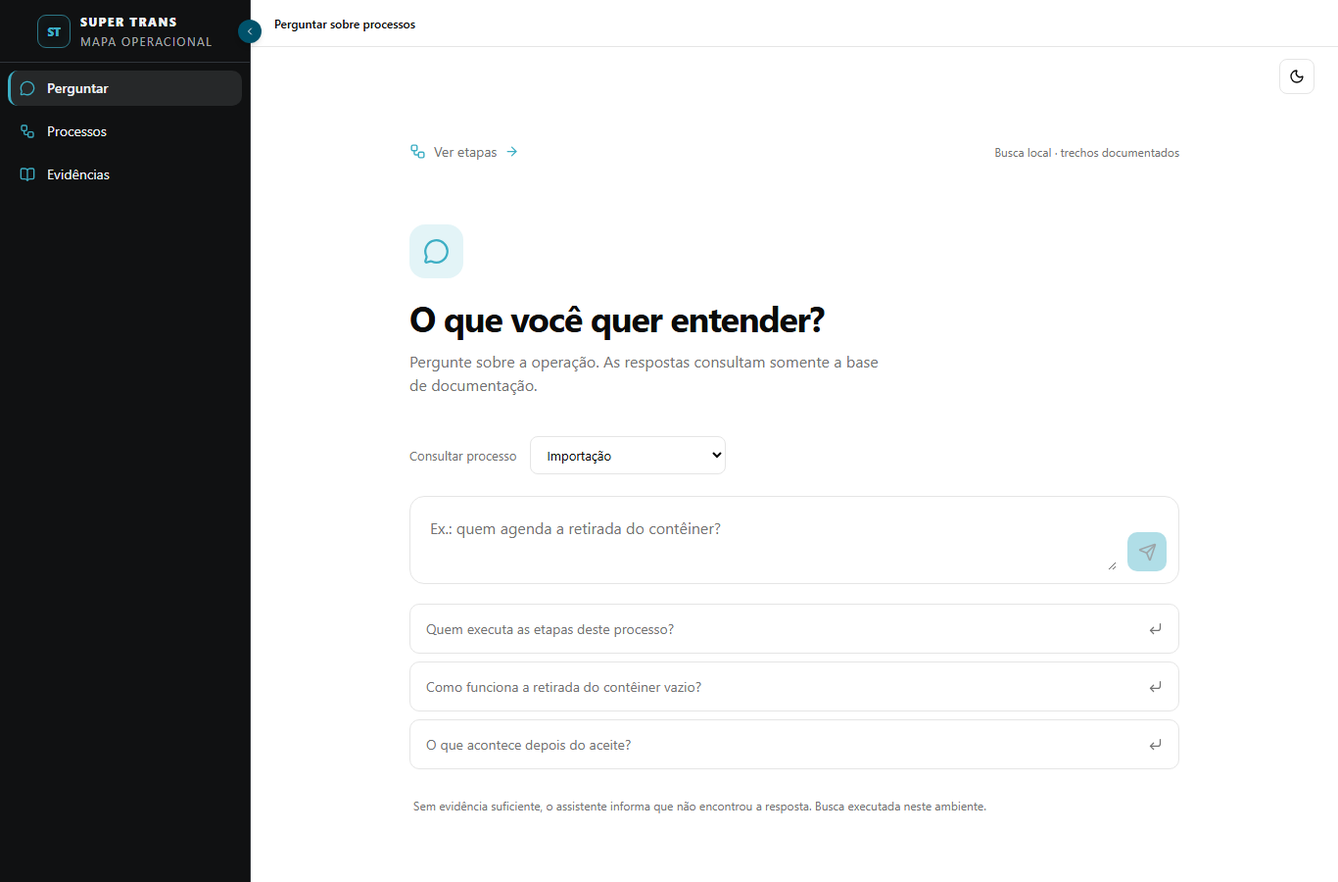
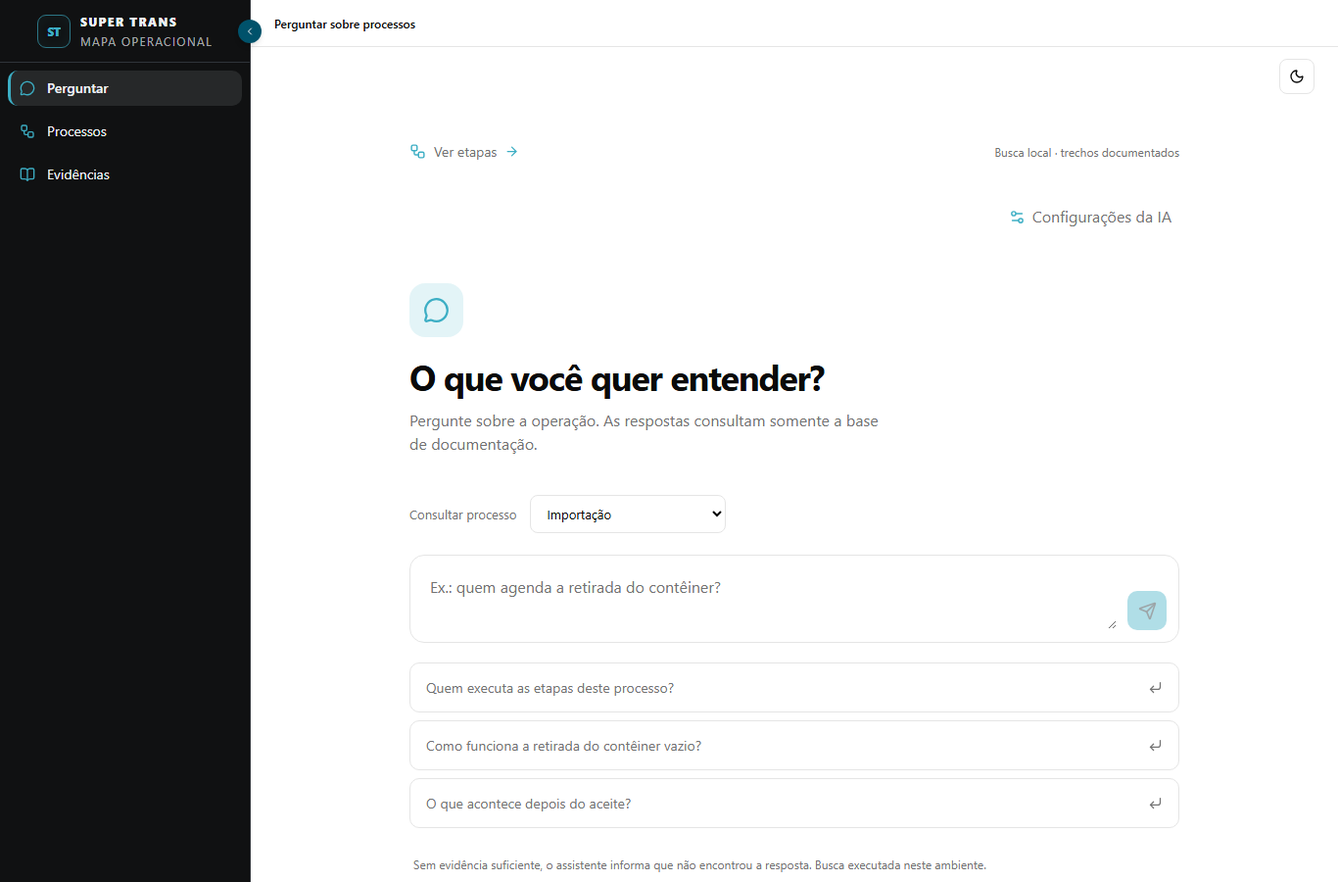
feat: configurar chave NVIDIA e modelo pela interface

diff --git a/frontend/src/components/AssistantSettings.tsx b/frontend/src/components/AssistantSettings.tsx
@@ -1,0 +1,79 @@
+import { useEffect, useRef, useState, type FormEvent } from 'react'
+import { Settings2, X } from 'lucide-react'
+
+const defaultModel = 'nvidia/nemotron-3.5-super-vl-120b-a12b'
+interface Settings {
+  model: string
+  keyConfigured: boolean
+  locked: boolean
+  mode: 'local-search' | 'local-nim' | 'nvidia-api'
+  externalContext: boolean
+}
+
+export function AssistantSettings({ onSaved }: { onSaved: (settings: Settings) => void }) {
+  const dialog = useRef<HTMLDialogElement>(null)
+  const [settings, setSettings] = useState<Settings | null>(null)
+  const [model, setModel] = useState(defaultModel)
+  const [custom, setCustom] = useState(false)
+  const [key, setKey] = useState('')
+  const [remove, setRemove] = useState(false)
+  const [busy, setBusy] = useState(false)
+  const [error, setError] = useState('')
+  const [message, setMessage] = useState('')
+  const controller = useRef<AbortController | null>(null)
+  useEffect(() => () => controller.current?.abort(), [])
+
+  async function open() {
+    setKey(''); setRemove(false); setError(''); setMessage(''); setSettings(null)
+    dialog.current?.showModal()
+    controller.current?.abort()
+    controller.current = new AbortController()
+    try {
+      const response = await fetch('/api/chat/settings', { signal: controller.current.signal })
+      if (!response.ok) throw new Error()
+      const data: Settings = await response.json()
+      setSettings(data); setModel(data.model); setCustom(data.model !== defaultModel)
+    } catch (reason) {
+      if (!(reason instanceof DOMException && reason.name === 'AbortError')) setError('Não foi possível carregar. Confira se o serviço local está iniciado.')
+    }
+  }
+
+  async function save(event: FormEvent) {
+    event.preventDefault()
+    setBusy(true); setError(''); setMessage('')
+    try {
+      const response = await fetch('/api/chat/settings', { method: 'POST', headers: { 'Content-Type': 'application/json' },
+        body: JSON.stringify({ model: model.trim(), apiKey: key.trim(), removeKey: remove }) })
+      const data = await response.json()
+      if (!response.ok) throw new Error(data.error || 'Não foi possível salvar.')
+      setSettings(data); setKey(''); setRemove(false); onSaved(data)
+      setMessage(data.keyConfigured ? 'Configuração salva. Será usada na próxima pergunta. A validade da chave ainda não foi testada.' : 'Configuração salva. Assistente em busca local.')
+    } catch (reason) { setError(reason instanceof Error ? reason.message : 'Não foi possível salvar.') }
+    finally { setBusy(false) }
+  }
+
+  return <>
+    <button className="assistant-settings-trigger" onClick={() => void open()}><Settings2 size={17} aria-hidden="true" />Configurações da IA</button>
+    <dialog ref={dialog} className="assistant-settings" aria-labelledby="ai-settings-title" onClose={() => { setKey(''); controller.current?.abort() }} onCancel={(event) => { if (busy) event.preventDefault() }}>
+      <div className="assistant-settings-heading"><h2 id="ai-settings-title">Configurações da IA</h2><button aria-label="Fechar configurações" disabled={busy} onClick={() => dialog.current?.close()}><X size={20} aria-hidden="true" /></button></div>
+      {error && <p role="alert" className="assistant-notice">{error}</p>}
+      {!settings && !error && <p>Carregando configuração…</p>}
+      {settings && <form onSubmit={(event) => void save(event)}>
+        <p>Provedor: NVIDIA API</p>
+        {settings.locked && <p className="assistant-notice">Configuração gerenciada pelas variáveis do servidor. Altere-as e reinicie o serviço.</p>}
+        <fieldset disabled={busy || settings.locked}>
+          <label>Modelo<select aria-label="Modelo" value={custom ? 'custom' : defaultModel} onChange={(event) => { const other = event.target.value === 'custom'; setCustom(other); setModel(other ? '' : defaultModel) }}>
+            <option value={defaultModel}>Nemotron 3.5 Super (padrão)</option><option value="custom">Outro modelo NVIDIA</option>
+          </select></label>
+          {custom && <label>Identificador do modelo<input required maxLength={200} value={model} onChange={(event) => setModel(event.target.value)} placeholder="organização/nome-do-modelo" autoComplete="off" /></label>}
+          <label>Chave de API NVIDIA<input type="password" maxLength={512} value={key} disabled={remove} onChange={(event) => setKey(event.target.value)} autoComplete="new-password" spellCheck={false} placeholder={settings.keyConfigured ? 'Chave salva · deixe vazio para manter' : 'Cole sua chave de API'} /></label>
+          <small>{settings.keyConfigured ? 'Chave configurada. O valor salvo não é exibido.' : 'Sem chave, o assistente usa a busca local.'} Armazenamento no servidor em .env.local, fora do Git.</small>
+          {settings.keyConfigured && <label className="assistant-settings-remove"><input type="checkbox" checked={remove} onChange={(event) => { setRemove(event.target.checked); setKey('') }} />Remover chave e usar busca local</label>}
+          <p className="assistant-footnote">Com a API ativa, perguntas e trechos relevantes da documentação são enviados à NVIDIA.</p>
+          <button type="submit" className="assistant-settings-save">{busy ? 'Salvando…' : 'Salvar configuração'}</button>
+        </fieldset>
+      </form>}
+      {message && <p role="status">{message}</p>}
+    </dialog>
+  </>
+}

diff --git a/frontend/src/styles.css b/frontend/src/styles.css
@@ -1517,3 +1517,19 @@ a:focus-visible { outline: 3px solid var(--ring); outline-offset: 2px; }
   .assistant-scope { flex-wrap: wrap; gap: 8px; }
   .assistant-scope select { max-width: 100%; width: 100%; }
 }
+
+.assistant-settings-bar { display:flex; justify-content:flex-end; margin:8px 0 20px; }
+.assistant-settings-trigger { display:inline-flex; align-items:center; gap:7px; background:transparent; color:var(--muted-foreground); border:0; padding:8px; cursor:pointer; }
+.assistant-settings-trigger svg { color:var(--accent); }
+.assistant-settings { margin:auto; width:min(510px, calc(100vw - 32px)); max-height:calc(100dvh - 40px); overflow:auto; padding:24px; border:1px solid var(--border); border-radius:16px; background:var(--card); color:var(--foreground); }
+.assistant-settings::backdrop { background:rgb(0 0 0 / 45%); }
+.assistant-settings-heading { display:flex; align-items:center; justify-content:space-between; gap:16px; }
+.assistant-settings-heading h2 { margin:0; font-size:20px; }
+.assistant-settings-heading button { border:0; background:transparent; color:inherit; cursor:pointer; padding:6px; }
+.assistant-settings fieldset { border:0; padding:0; margin:0; min-width:0; display:grid; gap:16px; }
+.assistant-settings label { display:grid; gap:7px; font-size:14px; font-weight:600; }
+.assistant-settings input:not([type=checkbox]), .assistant-settings select { width:100%; min-width:0; box-sizing:border-box; padding:11px; border:1px solid var(--border); border-radius:8px; background:var(--background); color:var(--foreground); }
+.assistant-settings small { color:var(--muted-foreground); line-height:1.6; }
+.assistant-settings .assistant-settings-remove { display:flex; align-items:center; gap:8px; font-weight:400; }
+.assistant-settings-save { border:0; border-radius:8px; padding:12px; color:var(--text-inverse); background:var(--accent); cursor:pointer; font-weight:600; }
+.assistant-settings :disabled { opacity:.6; cursor:default; }

diff --git a/frontend/src/components/AssistantPage.tsx b/frontend/src/components/AssistantPage.tsx
@@ -2,6 +2,7 @@ import { useEffect, useRef, useState, type FormEvent } from 'react'
 import { ArrowRight, BookOpen, CornerDownLeft, LoaderCircle, MessageCircle, Send, Workflow } from 'lucide-react'
 import { Link } from 'react-router-dom'
 import type { FrontendCatalog } from '../data/types'
+import { AssistantSettings } from './AssistantSettings'
 
 interface Evidence { id: string; file: string; line: number; title: string; quote: string; processId: string | null }
 interface Reply { mode: 'local-search' | 'local-nim' | 'nvidia-api'; answer: string; sources: Evidence[]; warning?: string }
@@ -58,6 +59,7 @@ export function AssistantPage({ catalog }: { catalog: FrontendCatalog }) {
         <Link className="assistant-flow-link" to={`/operacao/${processId || 'P001'}`}><Workflow size={17} aria-hidden="true" />Ver etapas<ArrowRight size={15} aria-hidden="true" /></Link>
         <span className="assistant-local-status">{mode === 'nvidia-api' ? 'NVIDIA NIM · respostas com fontes' : mode === 'local-nim' ? 'NIM local · respostas com fontes' : mode === 'local-search' ? 'Busca local · trechos documentados' : 'Base de processos'}</span>
       </header>
+      <div className="assistant-settings-bar"><AssistantSettings onSaved={(settings) => { setMode(settings.mode); setExternalContext(settings.externalContext) }} /></div>
       {turns.length === 0 && <section className="assistant-welcome">
         <span className="assistant-mark"><MessageCircle size={27} aria-hidden="true" /></span>
         <h1>O que você quer entender?</h1>

diff --git a/scripts/chat_server.py b/scripts/chat_server.py
@@ -7,6 +7,8 @@ import json
 import os
 from pathlib import Path
 import re
+import tempfile
+import threading
 import urllib.error
 import urllib.parse
 import urllib.request
@@ -108,6 +110,7 @@ def readable(hit, question=''):
 class Assistant:
     def __init__(self, corpus: Path, endpoint: str = '', model: str = '', nvidia_api_key: str = ''):
         self.index = KnowledgeIndex(corpus)
+        self.config_lock = threading.RLock()
         self.endpoint = local_endpoint(endpoint) if endpoint else ''
         self.model = model
         self.api_key = ''
@@ -121,6 +124,8 @@ class Assistant:
             raise ValueError('NIM_MODEL é obrigatório ao configurar NIM_BASE_URL')
 
     def answer(self, question: str, process_id: str | None):
+        with self.config_lock:
+            endpoint, model, api_key, external = self.endpoint, self.model, self.api_key, self.external
         if not isinstance(question, str) or not 3 <= len(question.strip()) <= 2000:
             raise ValueError('Escreva uma pergunta entre 3 e 2000 caracteres')
         if process_id is not None and not re.fullmatch(r'P00[1-9]|P010', str(process_id)):
@@ -131,10 +136,10 @@ class Assistant:
         mode = 'local-search'
         warning = None
         selected = []
-        if self.endpoint:
+        if endpoint:
             try:
-                selected = nim_quotes(question, hits, self.endpoint, self.model, self.api_key)
-                mode = 'nvidia-api' if self.external else 'local-nim'
+                selected = nim_quotes(question, hits, endpoint, model, api_key)
+                mode = 'nvidia-api' if external else 'local-nim'
                 if not selected:
                     return dict(mode=mode, answer='Não encontrei evidência suficiente para responder com segurança.', sources=[])
             except (OSError, ValueError, KeyError, IndexError, TypeError):
@@ -143,11 +148,61 @@ class Assistant:
             selected = [dict(h, quote=readable(h, question)) for h in hits[:3]]
         public = [dict(id=h['id'], file=h['file'], line=h['line'], title=re.sub(r'\s*\[.*?\]\s*$', '', h['title']),
                        quote=h['quote'], processId=h['processId']) for h in selected]
-        return dict(mode=mode, externalContext=self.external, answer='Encontrei estes trechos na documentação:' if mode == 'local-search' else 'A documentação informa:',
+        return dict(mode=mode, externalContext=external, answer='Encontrei estes trechos na documentação:' if mode == 'local-search' else 'A documentação informa:',
                     sources=public, warning=warning)
 
 
-def make_handler(assistant, directory):
+class SettingsStore:
+    def __init__(self, assistant, root=ROOT):
+        self.assistant = assistant
+        self.root = root
+
+    def public(self):
+        with self.assistant.config_lock:
+            config = configuration(self.root)
+            locked = bool(config['NIM_BASE_URL'] or any(key in os.environ for key in ('NVIDIA_API_KEY', 'NVIDIA_MODEL')))
+            return dict(model=self.assistant.model or config['NVIDIA_MODEL'] or NVIDIA_MODEL,
+                        keyConfigured=bool(self.assistant.api_key), locked=locked,
+                        mode='nvidia-api' if self.assistant.external else 'local-nim' if self.assistant.endpoint else 'local-search',
+                        externalContext=self.assistant.external)
+
+    def save(self, data):
+        with self.assistant.config_lock:
+            if self.public()['locked']:
+                raise ValueError('Configuração gerenciada pelo ambiente do servidor. Altere as variáveis e reinicie o serviço.')
+            model = data.get('model', '')
+            key = data.get('apiKey', '')
+            remove = data.get('removeKey', False)
+            if not isinstance(model, str) or not re.fullmatch(r'[A-Za-z0-9][A-Za-z0-9._/-]{1,199}', model):
+                raise ValueError('Informe um identificador de modelo válido.')
+            if not isinstance(key, str) or len(key) > 512 or any(ord(c) < 33 or ord(c) > 126 or c in "\"'" for c in key):
+                raise ValueError('Chave inválida: use o valor sem espaços ou quebras de linha.')
+            if not isinstance(remove, bool) or (remove and key):
+                raise ValueError('Escolha substituir ou remover a chave.')
+            config = configuration(self.root)
+            key = '' if remove else key or config['NVIDIA_API_KEY']
+            path = self.root / '.env.local'
+            lines = path.read_text(encoding='utf-8').splitlines() if path.exists() else []
+            lines = [line for line in lines if line.strip().partition('=')[0].strip() not in ('NVIDIA_API_KEY', 'NVIDIA_MODEL')]
+            lines += ['NVIDIA_API_KEY=' + key, 'NVIDIA_MODEL=' + model]
+            temporary = None
+            try:
+                with tempfile.NamedTemporaryFile(mode='w', encoding='utf-8', dir=self.root, prefix='.env.local.', delete=False) as handle:
+                    temporary = Path(handle.name)
+                    handle.write('\n'.join(lines) + '\n')
+                temporary.replace(path)
+            finally:
+                if temporary and temporary.exists():
+                    temporary.unlink()
+            self.assistant.endpoint = NVIDIA_ENDPOINT if key else ''
+            self.assistant.api_key = key
+            self.assistant.model = model
+            self.assistant.external = bool(key)
+            return self.public()
+
+
+def make_handler(assistant, directory, settings=None):
+    settings = settings or SettingsStore(assistant)
     class Handler(SimpleHTTPRequestHandler):
         def __init__(self, *args, **kwargs):
             super().__init__(*args, directory=str(directory), **kwargs)
@@ -166,7 +221,7 @@ def make_handler(assistant, directory):
             self.wfile.write(body)
 
         def do_POST(self):
-            if self.path != '/api/chat':
+            if self.path not in ('/api/chat', '/api/chat/settings'):
                 return self.json_response({'error': 'Rota inexistente'}, 404)
             # Only the local same-origin app may submit questions.
             origin = self.headers.get('Origin')
@@ -181,6 +236,11 @@ def make_handler(assistant, directory):
                 if self.headers.get('Content-Type', '').split(';')[0] != 'application/json':
                     raise ValueError('Use JSON')
                 data = json.loads(self.rfile.read(length))
+                if self.path == '/api/chat/settings':
+                    try:
+                        return self.json_response(settings.save(data))
+                    except ValueError as error:
+                        return self.json_response({'error': str(error)}, 400)
                 return self.json_response(assistant.answer(data.get('question'), data.get('processId')))
             except (ValueError, TypeError, AttributeError):
                 return self.json_response({'error': 'Pergunta ou processo inválido'}, 400)
@@ -188,6 +248,8 @@ def make_handler(assistant, directory):
                 return self.json_response({'error': 'Não foi possível consultar a base local'}, 500)
 
         def do_GET(self):
+            if self.path == '/api/chat/settings':
+                return self.json_response(settings.public())
             if self.path == '/api/chat/status':
                 return self.json_response(dict(mode='nvidia-api' if assistant.external else 'local-nim' if assistant.endpoint else 'local-search', externalContext=assistant.external, documents=len(assistant.index.chunks)))
             if self.path.startswith('/api/'):

diff --git a/tests/test_chat_settings.py b/tests/test_chat_settings.py
@@ -1,0 +1,93 @@
+import json
+import os
+from pathlib import Path
+import tempfile
+import threading
+import unittest
+import urllib.error
+import urllib.request
+from http.server import ThreadingHTTPServer
+from unittest.mock import patch
+from scripts.chat_server import Assistant, SettingsStore, make_handler, NVIDIA_MODEL, configuration
+
+ROOT = Path(__file__).resolve().parents[1]
+
+
+class SettingsTests(unittest.TestCase):
+    def setUp(self):
+        self.env = patch.dict(os.environ, {}, clear=False)
+        self.env.start()
+        for key in ('NVIDIA_API_KEY', 'NVIDIA_MODEL', 'NIM_BASE_URL', 'NIM_MODEL'):
+            os.environ.pop(key, None)
+        workspaces = ROOT / 'data/test-workspaces'
+        workspaces.mkdir(parents=True, exist_ok=True)
+        self.temp = tempfile.TemporaryDirectory(prefix='chat-settings-', dir=workspaces)
+        self.root = Path(self.temp.name)
+        self.assistant = Assistant(ROOT / 'knowledge')
+        self.store = SettingsStore(self.assistant, self.root)
+
+    def tearDown(self):
+        self.temp.cleanup()
+        self.env.stop()
+
+    def test_save_preserve_replace_remove_and_restart_without_echo(self):
+        path = self.root / '.env.local'
+        path.write_text('# Preserve comment\nOTHER=value\n', encoding='utf-8')
+        result = self.store.save(dict(model=NVIDIA_MODEL, apiKey='placeholder-secret'))
+        self.assertTrue(result['keyConfigured'])
+        self.assertEqual(result['mode'], 'nvidia-api')
+        self.assertNotIn('placeholder-secret', json.dumps(result))
+        result = self.store.save(dict(model='example/other-model'))
+        self.assertEqual(self.assistant.api_key, 'placeholder-secret')
+        self.assertEqual(self.assistant.model, 'example/other-model')
+        self.assertEqual(configuration(self.root)['NVIDIA_API_KEY'], 'placeholder-secret')
+        with patch('scripts.chat_server.nim_quotes', return_value=[]) as provider:
+            self.assistant.answer('Quem agenda a retirada?', 'P001')
+        self.assertEqual(provider.call_args.args[-2:], ('example/other-model', 'placeholder-secret'))
+        self.store.save(dict(model=NVIDIA_MODEL, apiKey='replacement'))
+        self.assertEqual(self.assistant.api_key, 'replacement')
+        result = self.store.save(dict(model=NVIDIA_MODEL, removeKey=True))
+        self.assertFalse(result['keyConfigured'])
+        self.assertEqual(result['mode'], 'local-search')
+        self.assertEqual(configuration(self.root)['NVIDIA_API_KEY'], '')
+        self.assertIn('# Preserve comment\nOTHER=value', path.read_text(encoding='utf-8'))
+
+    def test_invalid_input_never_changes_config(self):
+        for data in [dict(model='bad\nINJECT=yes'), dict(model=NVIDIA_MODEL, apiKey='bad\nkey'),
+                     dict(model=NVIDIA_MODEL, apiKey='key', removeKey=True), dict(model=NVIDIA_MODEL, removeKey='true')]:
+            with self.assertRaises(ValueError):
+                self.store.save(data)
+        self.assertFalse((self.root / '.env.local').exists())
+
+    def test_environment_configuration_cannot_be_silently_overridden(self):
+        with patch.dict(os.environ, {'NVIDIA_API_KEY': 'environment-placeholder'}):
+            self.assertTrue(self.store.public()['locked'])
+            with self.assertRaises(ValueError):
+                self.store.save(dict(model=NVIDIA_MODEL, removeKey=True))
+        self.assertFalse((self.root / '.env.local').exists())
+
+    def test_http_settings_no_secret_echo_and_foreign_origin_denied(self):
+        server = ThreadingHTTPServer(('127.0.0.1', 0), make_handler(self.assistant, ROOT / 'frontend/dist', self.store))
+        thread = threading.Thread(target=server.serve_forever, daemon=True)
+        thread.start()
+        url = f'http://127.0.0.1:{server.server_port}/api/chat/settings'
+        body = json.dumps(dict(model=NVIDIA_MODEL, apiKey='http-placeholder')).encode()
+        try:
+            request = urllib.request.Request(url, data=body, headers={'Content-Type': 'application/json', 'Origin': 'https://foreign.example'})
+            with self.assertRaises(urllib.error.HTTPError) as failure:
+                urllib.request.urlopen(request)
+            self.assertEqual(failure.exception.code, 403)
+            failure.exception.close()
+            self.assertFalse(self.assistant.api_key)
+            request = urllib.request.Request(url, data=body, headers={'Content-Type': 'application/json'})
+            with urllib.request.urlopen(request) as response:
+                self.assertEqual(response.headers['Cache-Control'], 'no-store')
+                self.assertNotIn(b'http-placeholder', response.read())
+            with urllib.request.urlopen(url) as response:
+                result = response.read()
+                self.assertNotIn(b'http-placeholder', result)
+                self.assertTrue(json.loads(result)['keyConfigured'])
+        finally:
+            server.shutdown()
+            server.server_close()
+            thread.join()

diff --git a/DECISIONS.md b/DECISIONS.md
@@ -593,3 +593,10 @@ API externa fixa NVIDIA com chave somente no servidor via NVIDIA_API_KEY (ambien
 Validação: 62 testes Python e 29 Vitest, build e QA assistant/operation/process-focus/human-review aprovados; chat com pergunta real/MD, fallback sem evidência, troca de processo, ausência de tráfego externo sem chave, dois temas e desktop/mobile, dez processos/73 passagens/14 diagramas. Fontes/data/normalized/frontend/public/data/alignment preservados. Aviso existente de chunk >500 kB permanece. Serviço 8765 deixado ativo em busca local para revisão; preview 4174 temporário.
 
 Próximo exato: revisão da nova experiência; configurar NVIDIA_API_KEY localmente no servidor e reiniciar, somente com corpus liberado/condições de serviço apropriadas ao conteúdo; validar modelo real sem chamar contrato simulado de inferência. Não solicitar chave pelo chat. Manter pendências operacionais anteriores explícitas.
+## DEC-050 — configuração de chave/modelo no chat (2026-10-22)
+
+Pedido explícito do usuário: local para inserir chave de API e escolher modelo. Acrescentado diálogo Configurações da IA sem sobrecarregar o chat. Modelo padrão solicitado ou outro ID NVIDIA; catálogo remoto não é consultado e disponibilidade não é prometida. Chave password, vazia após salvar/reabrir; vazio mantém a existente, remoção exige opção explícita e retorna à busca local.
+
+GET/POST /api/chat/settings: só presença da chave e modelo são devolvidos, nunca segredo. JSON e validação de Origin do serviço loopback também se aplicam à gravação; sem logs de conteúdo. Escrita atômica em .env.local (texto local, sem criptografia, ignorado com seus temporários), preserva demais entradas/comentários. Atualização da configuração sob lock; cada consulta usa snapshot estável. Variáveis de ambiente prevalecem e bloqueiam edição, assim como NIM local administrado no servidor. Serviço segue restrito a localhost; não é painel multiusuário publicado.
+
+Salvamento não faz inferência nem valida credencial/modelo remotamente. UI explicita saída de perguntas/trechos para NVIDIA e ausência de teste da chave. Regras de conteúdo/trial e restrições documentadas na DEC-049 permanecem. 66 testes Python, 29 Vitest, build e QA assistant/assistant-settings aprovados; configuração HTTP real em diretório temporário, UI com API simulada e chave fictícia. Nenhum documento enviado à NVIDIA. Próximo: usuário configurar credencial pela interface e validar inferência real com material liberado.

diff --git a/.codex/HANDOFF.md b/.codex/HANDOFF.md
@@ -440,3 +440,10 @@ Validação: 62 Python/29 Vitest/build aprovados; QA assistant/operation/process
 Serviço de busca local DEIXADO ATIVO em http://127.0.0.1:8765 (exec session 38390 nesta conversa); preview 4174 encerrado. Conferir porta antes de iniciar nova cópia. Próximo EXATO: usuário revisar nova entrada; configurar chave LOCALMENTE no servidor e reiniciar com conteúdo/serviço liberado, validar API/modelo reais e relevância das citações. Perguntas são independentes nesta versão (sem memória semântica de follow-up); busca lexical pode exigir termos mais específicos. Manter pendências operacionais anteriores (1 conflito, 18 dúvidas, 3 inclusões, data de revisão) explícitas.
 
 Complemento final: Markdown normaliza apenas espaços finais por linha (raw/originais intactos); hashes regenerados e 8 testes específicos repetidos OK. Serviço reiniciado para índice atualizado: exec session 39716, porta 8765, busca local sem chave. Sessão 38390 foi encerrada.
+## CHECKPOINT VIGENTE — configuração da IA pela interface (2026-10-22)
+
+DEC-050: botão Configurações da IA em AssistantPage abre AssistantSettings (dialog nativo, Escape/foco, password). Modelo padrão ou personalizado; chave vazia mantém, remoção explícita volta à busca local. SettingsStore em scripts/chat_server.py, GET/POST /api/chat/settings, persistência atômica .env.local ignorado, configuração aplicada sem reiniciar e snapshot por consulta. Não retorna chave; ambiente/NIM local bloqueiam edição. Nenhuma chave real cadastrada nem inferência real executada.
+
+66 Python/29 Vitest/build OK. QA assistant e assistant-settings (API simulada no segundo) OK desktop/mobile/claro/escuro; capturas docs/screenshots/assistant-settings. Nenhum segredo gravado em fixtures versionadas; placeholders só em testes. Fontes/raw/normalized/review/frontend/public/data preservados. Build mantém aviso de chunk >500 kB. Serviço python -m scripts.chat_server --port 8765 ativo em busca local (sessão exec 85261).
+
+Próximo exato: usuário abrir http://127.0.0.1:8765, Configurações da IA, cadastrar chave e escolher modelo. Validar chamada real com material liberado/condições apropriadas; salvar não testa validade. Não pedir segredo pelo chat. Pendências operacionais anteriores permanecem.

diff --git a/PROJECT_STATUS.md b/PROJECT_STATUS.md
@@ -332,3 +332,10 @@ Dark ajustado para grafite, cartões mais claros e bordas legíveis; sidebar pre
 / e /assistente agora abrem chat; processo, pergunta e fontes sob demanda, etapas disponíveis por link. Menu simplificado. Base knowledge/ com 39 Markdown: 10 processos, 1.350 nós, 1.081 linhas POP, 270 revisões e snapshots externos separados. Runtime consulta só Markdown. API NVIDIA preparada com modelo solicitado e chave no servidor; sem chave, busca local identificada. Nenhuma chamada NVIDIA real foi feita. DEC-049 e docs/assistant.md registram decisão mais recente de API externa, confidencialidade e limites do trial.
 
 62 Python/29 Vitest/build e QA assistant/operation/process-focus/human-review aprovados. Fontes/modelo/revisões canônicas preservados. Assistente em 127.0.0.1:8765 deixado ativo em busca local; chave não configurada. Próximo: revisar interface e configurar provedor com conteúdo liberado, validar inferência real. Pendências de processo anteriores permanecem.
+## Marco 2026-10-22 — chave e modelo pela interface
+
+Botão Configurações da IA no chat: senha para chave NVIDIA, seleção do modelo padrão ou identificador personalizado, manutenção/substituição/remoção da chave. Salvar persiste atomicamente em .env.local ignorado e aplica à próxima pergunta sem reiniciar. API retorna somente presença da chave, nunca seu valor; nenhum segredo em localStorage/URL/bundle/log. Configuração por ambiente ou NIM local bloqueia edição para preservar precedência administrativa. DEC-050.
+
+Validação: 66 Python, 29 Vitest, build e QA assistant/assistant-settings aprovados; testes HTTP em servidor efêmero e UI simulada sem inferência NVIDIA real. Temas e mobile conferidos; aviso existente de chunk >500 kB permanece. Fontes/raw/normalized/review/frontend/public/data intactos. Serviço 8765 atualizado e ativo em busca local, sem chave real cadastrada.
+
+Próximo exato: usuário abre Configurações da IA, cadastra chave e modelo; validar inferência real com material liberado. Pendências operacionais anteriores continuam abertas.

diff --git a/TASKS.md b/TASKS.md
@@ -314,3 +314,10 @@ O plano abaixo foi executado parcialmente nesta fase; a coluna Jira ficou penden
 - [ ] Revisão do usuário da interface simplificada.
 - [ ] Configurar chave no servidor com corpus liberado/serviço apropriado e validar NVIDIA real; ainda não houve inferência real.
 - [ ] Esclarecer pendências operacionais anteriores; chatbot não resolve lacunas de fonte.
+## Configuração da IA na interface — 2026-10-22
+
+- [x] Adicionar chave protegida e seleção padrão/personalizada do modelo no chat.
+- [x] Persistir no servidor sem retornar segredo; aplicar sem reinício e permitir remoção.
+- [x] Respeitar precedência de ambiente/NIM local e recusar gravação de origem externa.
+- [x] Validar persistência, contrato HTTP, 66 Python/29 Vitest/build e QA desktop/mobile/claro/escuro.
+- [ ] Usuário cadastrar chave/modelo e validar NVIDIA real com conteúdo liberado; testes realizados não chamaram o provedor real.

diff --git a/README.md b/README.md
@@ -97,3 +97,5 @@ python -m scripts.chat_server
 ```
 
 Abrir http://127.0.0.1:8765. Sem chave, funciona como busca local. Integração externa usa NVIDIA_API_KEY somente no servidor e modelo nvidia/nemotron-3.5-super-vl-120b-a12b. `.env.example` documenta configuração; `.env.local` não é versionado. Nenhuma chamada real NVIDIA foi feita nesta sessão. Confidencialidade e limites do trial precisam ser respeitados antes de enviar material interno. Ver [arquitetura, configuração e limites](docs/assistant.md).
+
+No chat, **Configurações da IA** permite cadastrar/substituir/remover a chave e escolher o modelo NVIDIA. Salvar aplica na próxima pergunta sem reiniciar; chave fica em `.env.local` no servidor e nunca é devolvida pela API. A validade da chave não é testada ao salvar.
